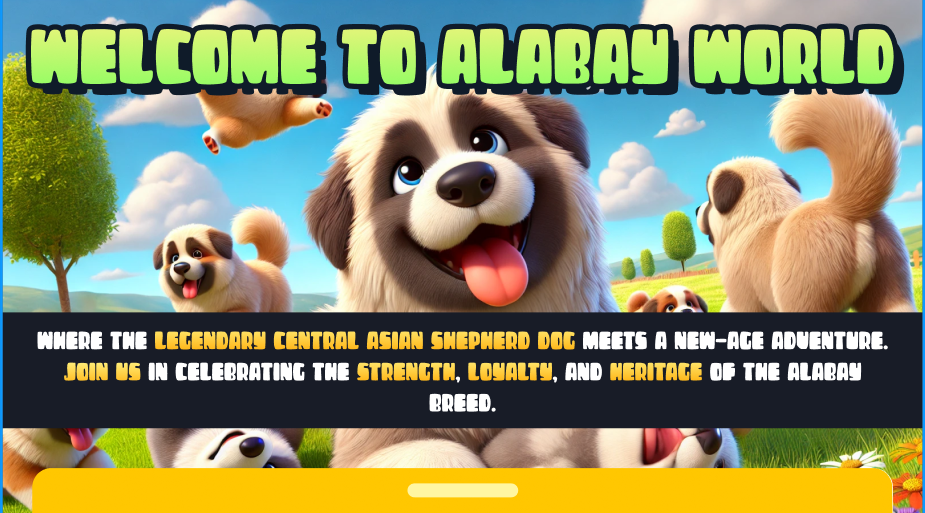
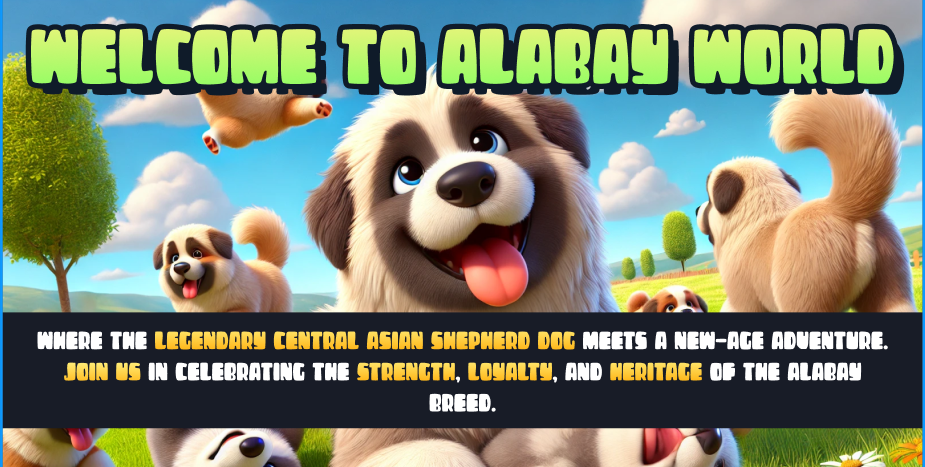
commit-4

diff --git a/alabay_world/src/components/Page6.js b/alabay_world/src/components/Page6.js
@@ -1,4 +1,4 @@
-import React, { useState } from 'react';
+import React, { useState, useEffect } from 'react';
 import "./Page6.css";
 import blackHoodiebck from './Images/Alabay Merch/black hoodie bck.png';
 import blackHoodie from './Images/Alabay Merch/black hoodie.png';
@@ -11,6 +11,7 @@ import yellowTee from './Images/Alabay Merch/yellow tshirt.png';
 
 const Page6 = () => {
   const [currentSlide, setCurrentSlide] = useState(0);
+  const [isAutoSliding, setIsAutoSliding] = useState(true);
 
   const merchandise = [
     { bck: blackHoodiebck, front: blackHoodie },
@@ -27,16 +28,36 @@ const Page6 = () => {
     setCurrentSlide((prevSlide) => (prevSlide - 1 + merchandise.length) % merchandise.length);
   };
 
+  useEffect(() => {
+    if (!isAutoSliding) return;
+    
+    const interval = setInterval(() => {
+      nextSlide();
+    }, 2000);
+    
+    return () => clearInterval(interval);
+  }, [isAutoSliding, currentSlide]);
+
+  const handleNext = () => {
+    setIsAutoSliding(false); // Stop auto sliding
+    nextSlide();
+  };
+
+  const handlePrev = () => {
+    setIsAutoSliding(false); // Stop auto sliding
+    prevSlide();
+  };
+
   return (
     <div className='pg6'>
       <h1>MERCHANDISE</h1>
       <div className='slider'>
-        <button className='prev' onClick={prevSlide}>&lt;</button>
+        <button className='prev' onClick={handlePrev}>&lt;</button>
         <div className='merch-item'>
           <img className='bck-image' src={merchandise[currentSlide].bck} alt='Background' />
           <img className='front-image' src={merchandise[currentSlide].front} alt='Merchandise' />
         </div>
-        <button className='next' onClick={nextSlide}>&gt;</button>
+        <button className='next' onClick={handleNext}>&gt;</button>
       </div>
     </div>
   );

diff --git a/alabay_world/src/App.js b/alabay_world/src/App.js
@@ -1,5 +1,5 @@
-import firstpicture from "./components/Images/firstpicture.png"
-import './App.css'
+import firstpicture from "./components/Images/firstpicture.png";
+import './App.css';
 import Page1 from "./components/Page1";
 import Page2 from "./components/Page2";
 import Page3 from "./components/Page3";
@@ -12,16 +12,18 @@ import Page8 from "./components/Page8";
 function App() {
   return (
     <div>
-     <img className="Background" src={firstpicture} alt={firstpicture}/>
-     <Page1/>
-     <Page2/>
-     <Page3/>
-     <Page4/>
-     <Page5/>
-     <Page6/>
-     <Page7/>
-     <Page8/>
- </div>
+      <img className="Background" src={firstpicture} alt={firstpicture} />
+      <div className="page-container">
+        <Page1 />
+        <Page2 />
+        <Page3 />
+        <Page4 />
+        <Page5 />
+        <Page6 />
+        <Page7 />
+        <Page8 />
+      </div>
+    </div>
   );
 }
 

diff --git a/alabay_world/src/App.css b/alabay_world/src/App.css
@@ -12,7 +12,20 @@ body, html {
     width: 98%; 
     margin-left: 1%;            
     height: 100vh;             
-    object-fit: cover;         
+    object-fit:calc(100%-16px);         
     z-index: 0;               
 }
+
+.page-container {
+    height: 90vh; /* Set height to 80% of the viewport height */
+    overflow-y: auto; /* Allows vertical scrolling */
+    overflow-x: hidden; /* Hides horizontal overflow */
+    position: fixed; /* Fixes the position of the container */
+    bottom: 0; /* Anchors it to the bottom of the viewport */
+    left: 0; /* Aligns it to the left */
+    right: 0; /* Aligns it to the right */
+    z-index: 1; /* Ensure it stays above the background */
+}
+
+
 

diff --git a/alabay_world/src/components/Page6.css b/alabay_world/src/components/Page6.css
@@ -20,7 +20,6 @@ h1 {
     margin-bottom: 50px;
 }
 
-/* Slider styling */
 .slider {
     position: relative;
     display: flex;
@@ -37,6 +36,7 @@ h1 {
     width: 700px; 
     height: 450px;
     border-radius: 10px;
+    transition: opacity 0.5s ease; /* Animation for smooth transition */
 }
 
 .bck-image {
@@ -53,7 +53,6 @@ h1 {
     height: auto;
 }
 
-/* Slider controls */
 .prev, .next {
     background-color: transparent;
     border: none;
@@ -62,7 +61,7 @@ h1 {
     position: absolute;
     top: 50%;
     transform: translateY(-50%);
-    color: rgba(0, 0, 0, 0.7); /* Optional: color for arrows */
+    color: rgba(0, 0, 0, 0.7);
 }
 
 .prev {

diff --git a/alabay_world/src/components/Page8.css b/alabay_world/src/components/Page8.css
@@ -1,6 +1,6 @@
 .pg8 {
     width: 86%;
-    height: 200vh;
+    height: 180vh;
     background-color: rgb(243, 244, 247);
     margin: 0 auto;
     display: flex;
